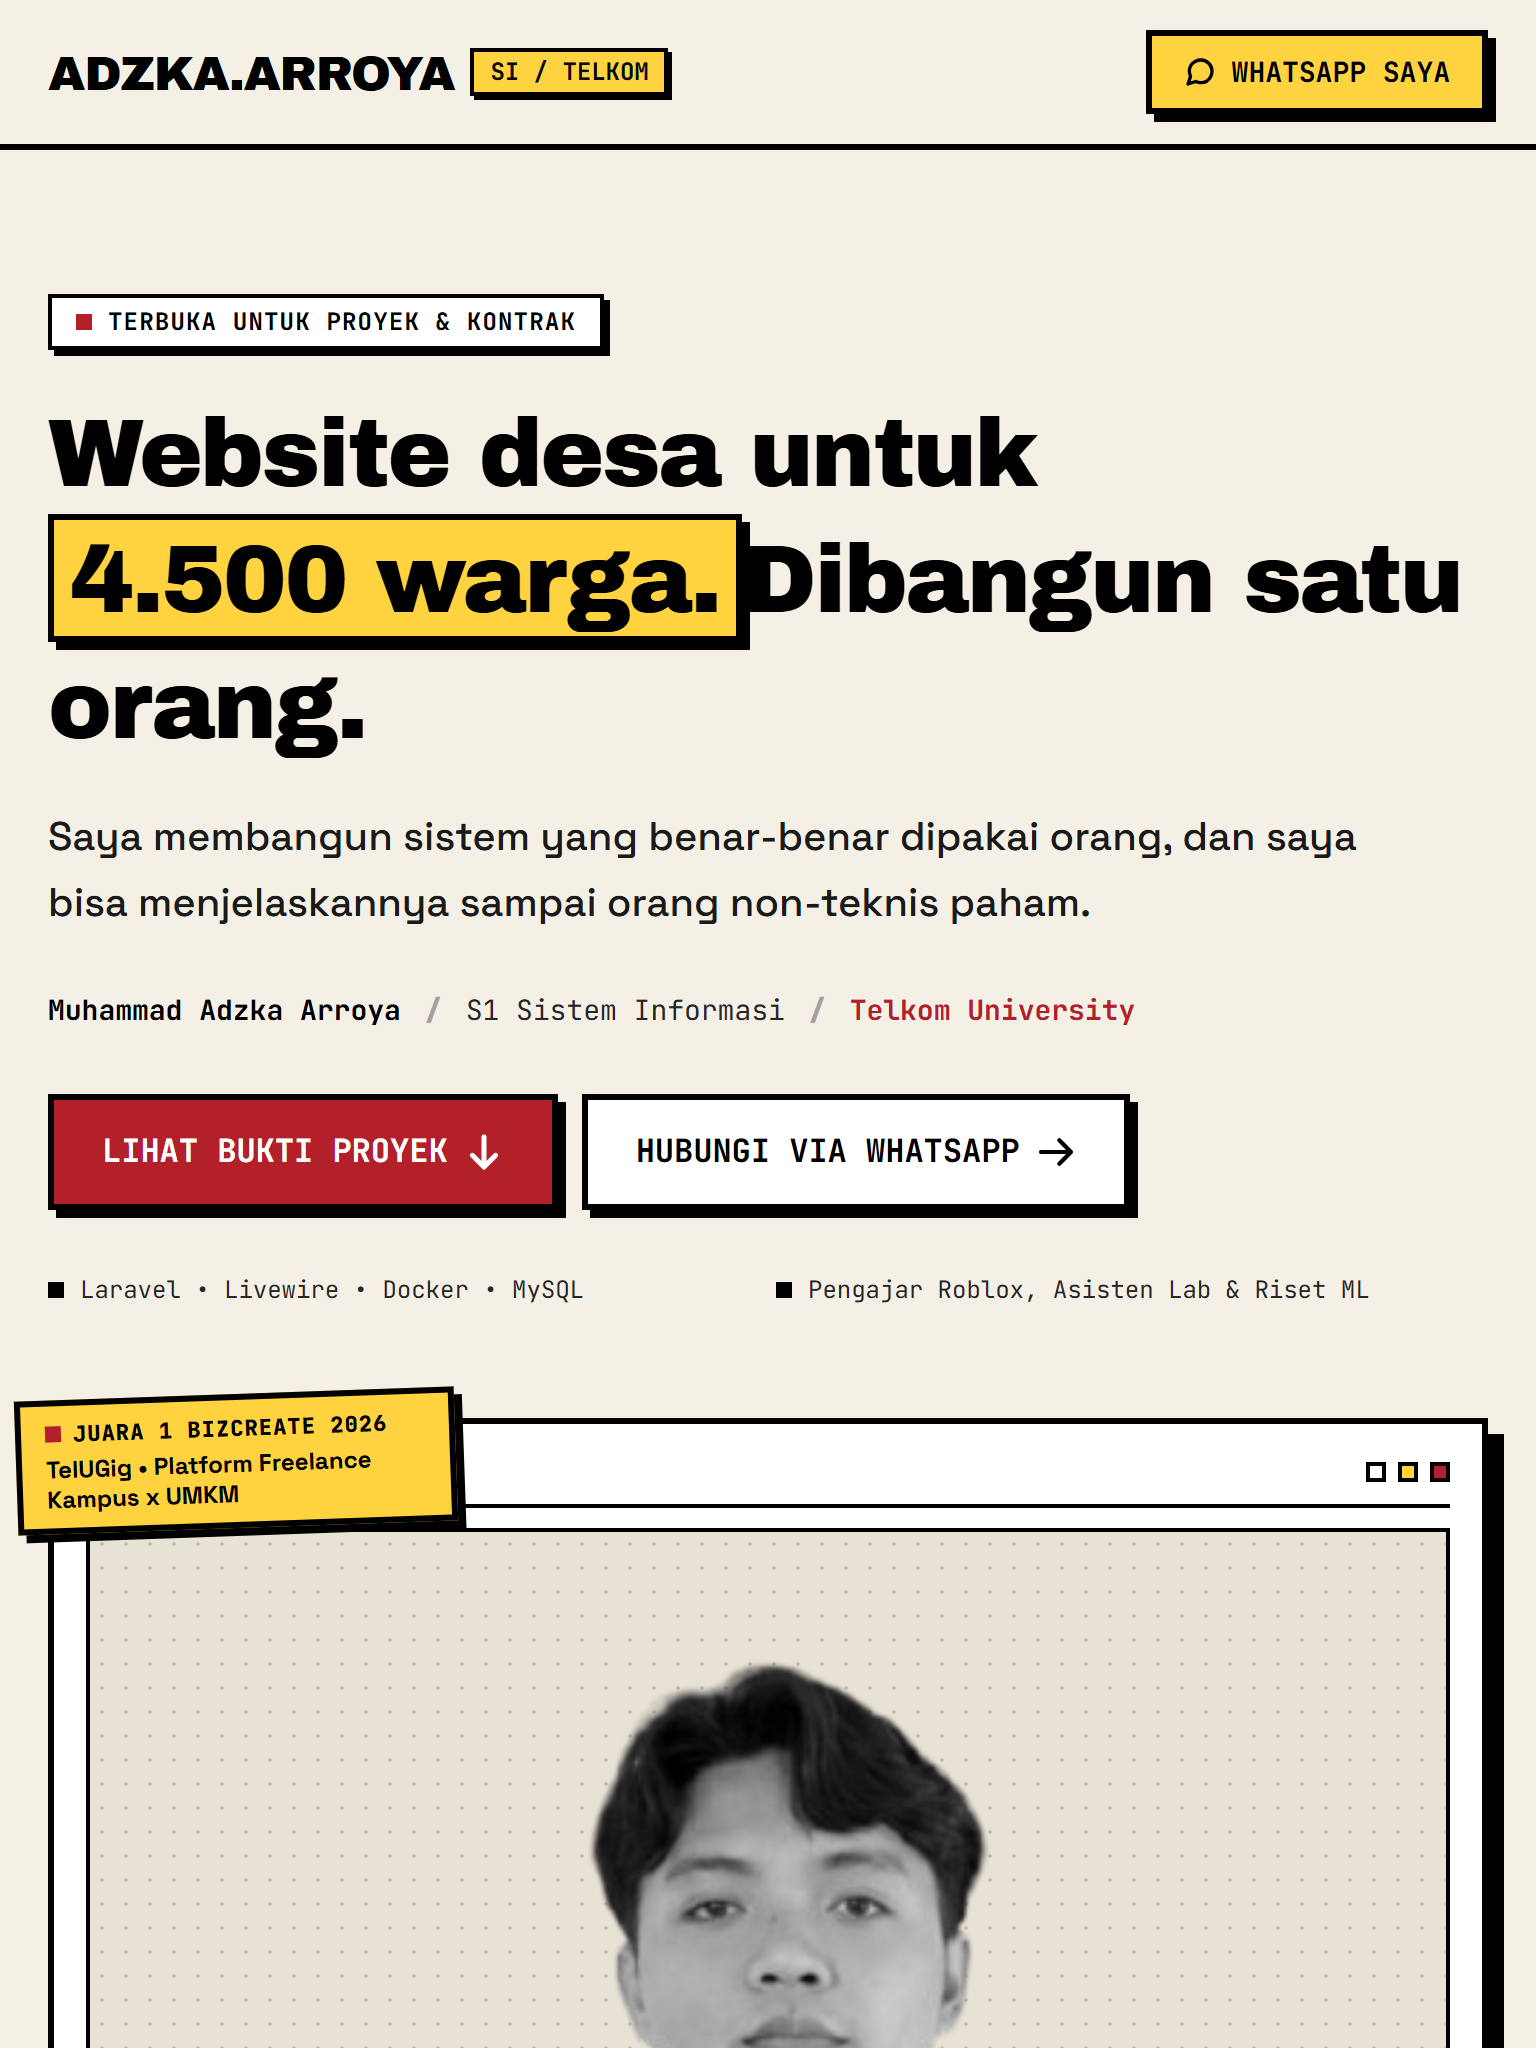
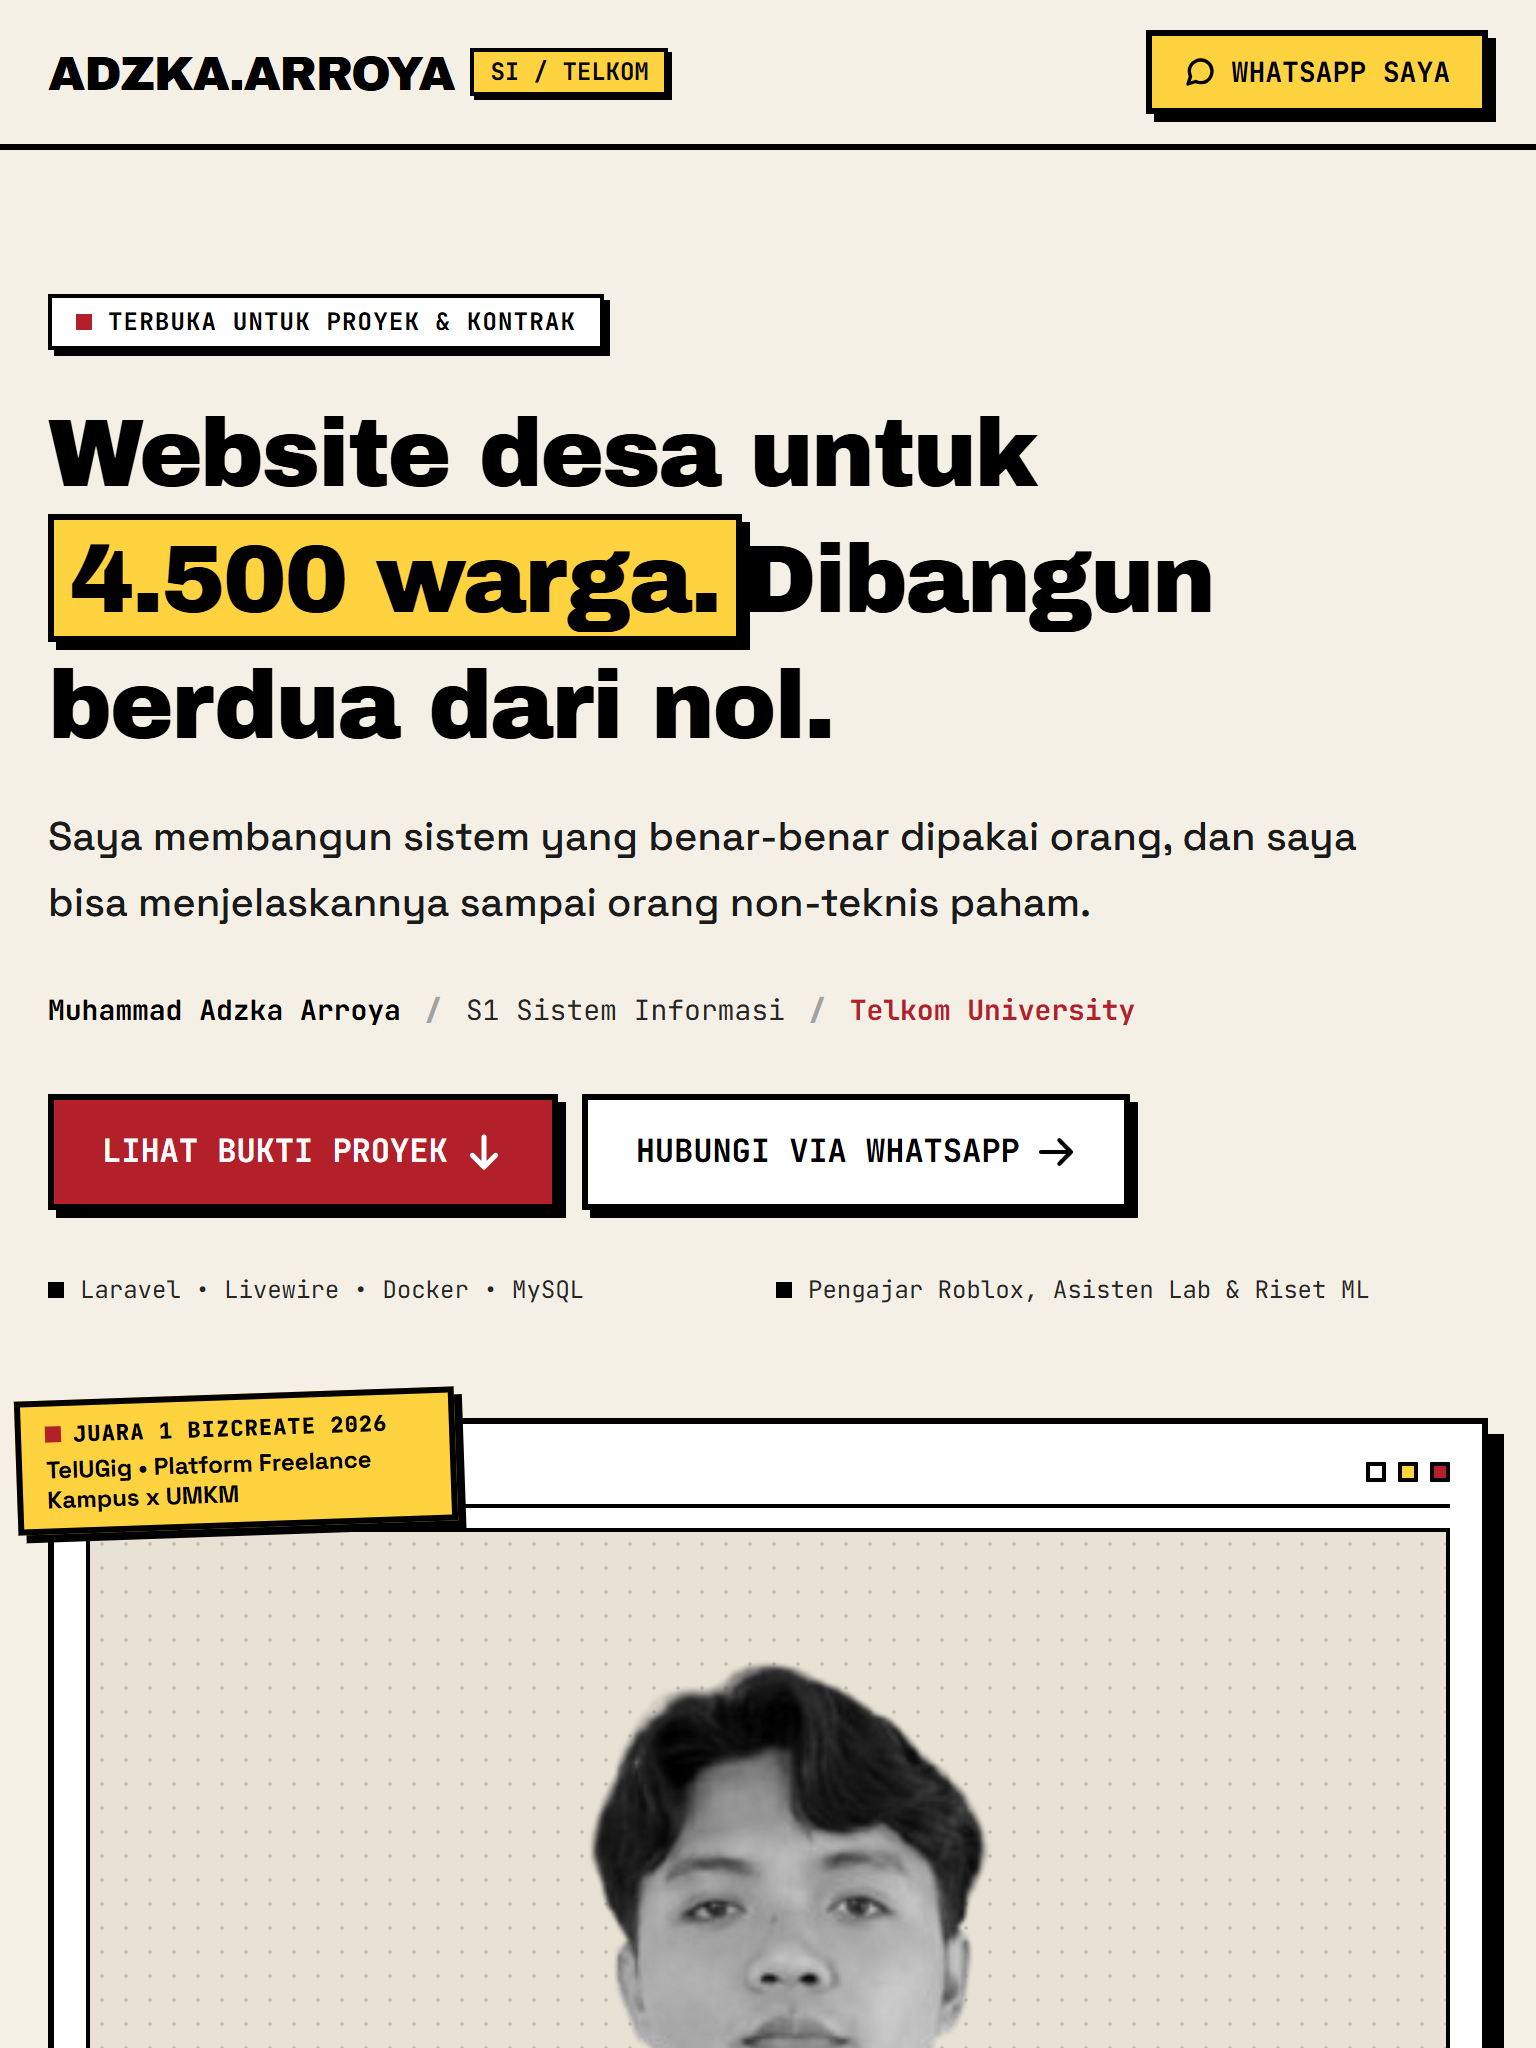
fix(hero): update headline to reflect 2-person builder team ('Dibangun berdua dari nol')

Changed region(s): [[0.0312, 0.3125, 0.5312, 0.375], [0.8125, 0.25, 0.9688, 0.3125]]

diff --git a/src/data/content.ts b/src/data/content.ts
@@ -104,7 +104,7 @@ export const siteContent = {
     campus: 'Telkom University',
     major: 'S1 Sistem Informasi',
     location: 'Kabupaten Bekasi & Bandung, Jawa Barat',
-    headline: 'Website desa untuk 4.500 warga. Dibangun satu orang.',
+    headline: 'Website desa untuk 4.500 warga. Dibangun berdua dari nol.',
     subheadline: 'Saya membangun sistem yang benar-benar dipakai orang, dan saya bisa menjelaskannya sampai orang non-teknis paham.',
     statusBadge: 'TERBUKA UNTUK PROYEK & KONTRAK',
     whatsappNumber: '+62 819-0660-2421',

diff --git a/TODO.md b/TODO.md
@@ -18,11 +18,13 @@ Dokumen ini mencatat semua placeholder data `[ISI: ...]` yang perlu diisi oleh A
 ---
 
 ## 2. Pilihan Headline Hero (Disimpan untuk Alternatif)
-- **Opsi Aktif di Situs**:
-  > *"Website desa untuk 4.500 warga. Dibangun satu orang."*
+- **Opsi Aktif di Situs** (dikoreksi sesuai fakta bahwa proyek Denanyar dikerjakan 2 orang):
+  > *"Website desa untuk 4.500 warga. Dibangun berdua dari nol."*
 - **Opsi Alternatif 1**:
-  > *"Bangun sistem yang nyata dipakai. Ajar orang sampai paham."*
+  > *"Website desa untuk 4.500 warga. Dibangun berdua, dipakai nyata."*
 - **Opsi Alternatif 2**:
+  > *"Bangun sistem yang nyata dipakai. Ajar orang sampai paham."*
+- **Opsi Alternatif 3**:
   > *"Mahasiswa Sistem Informasi yang sudah punya klien dan produk teruji."*
 
 ---
